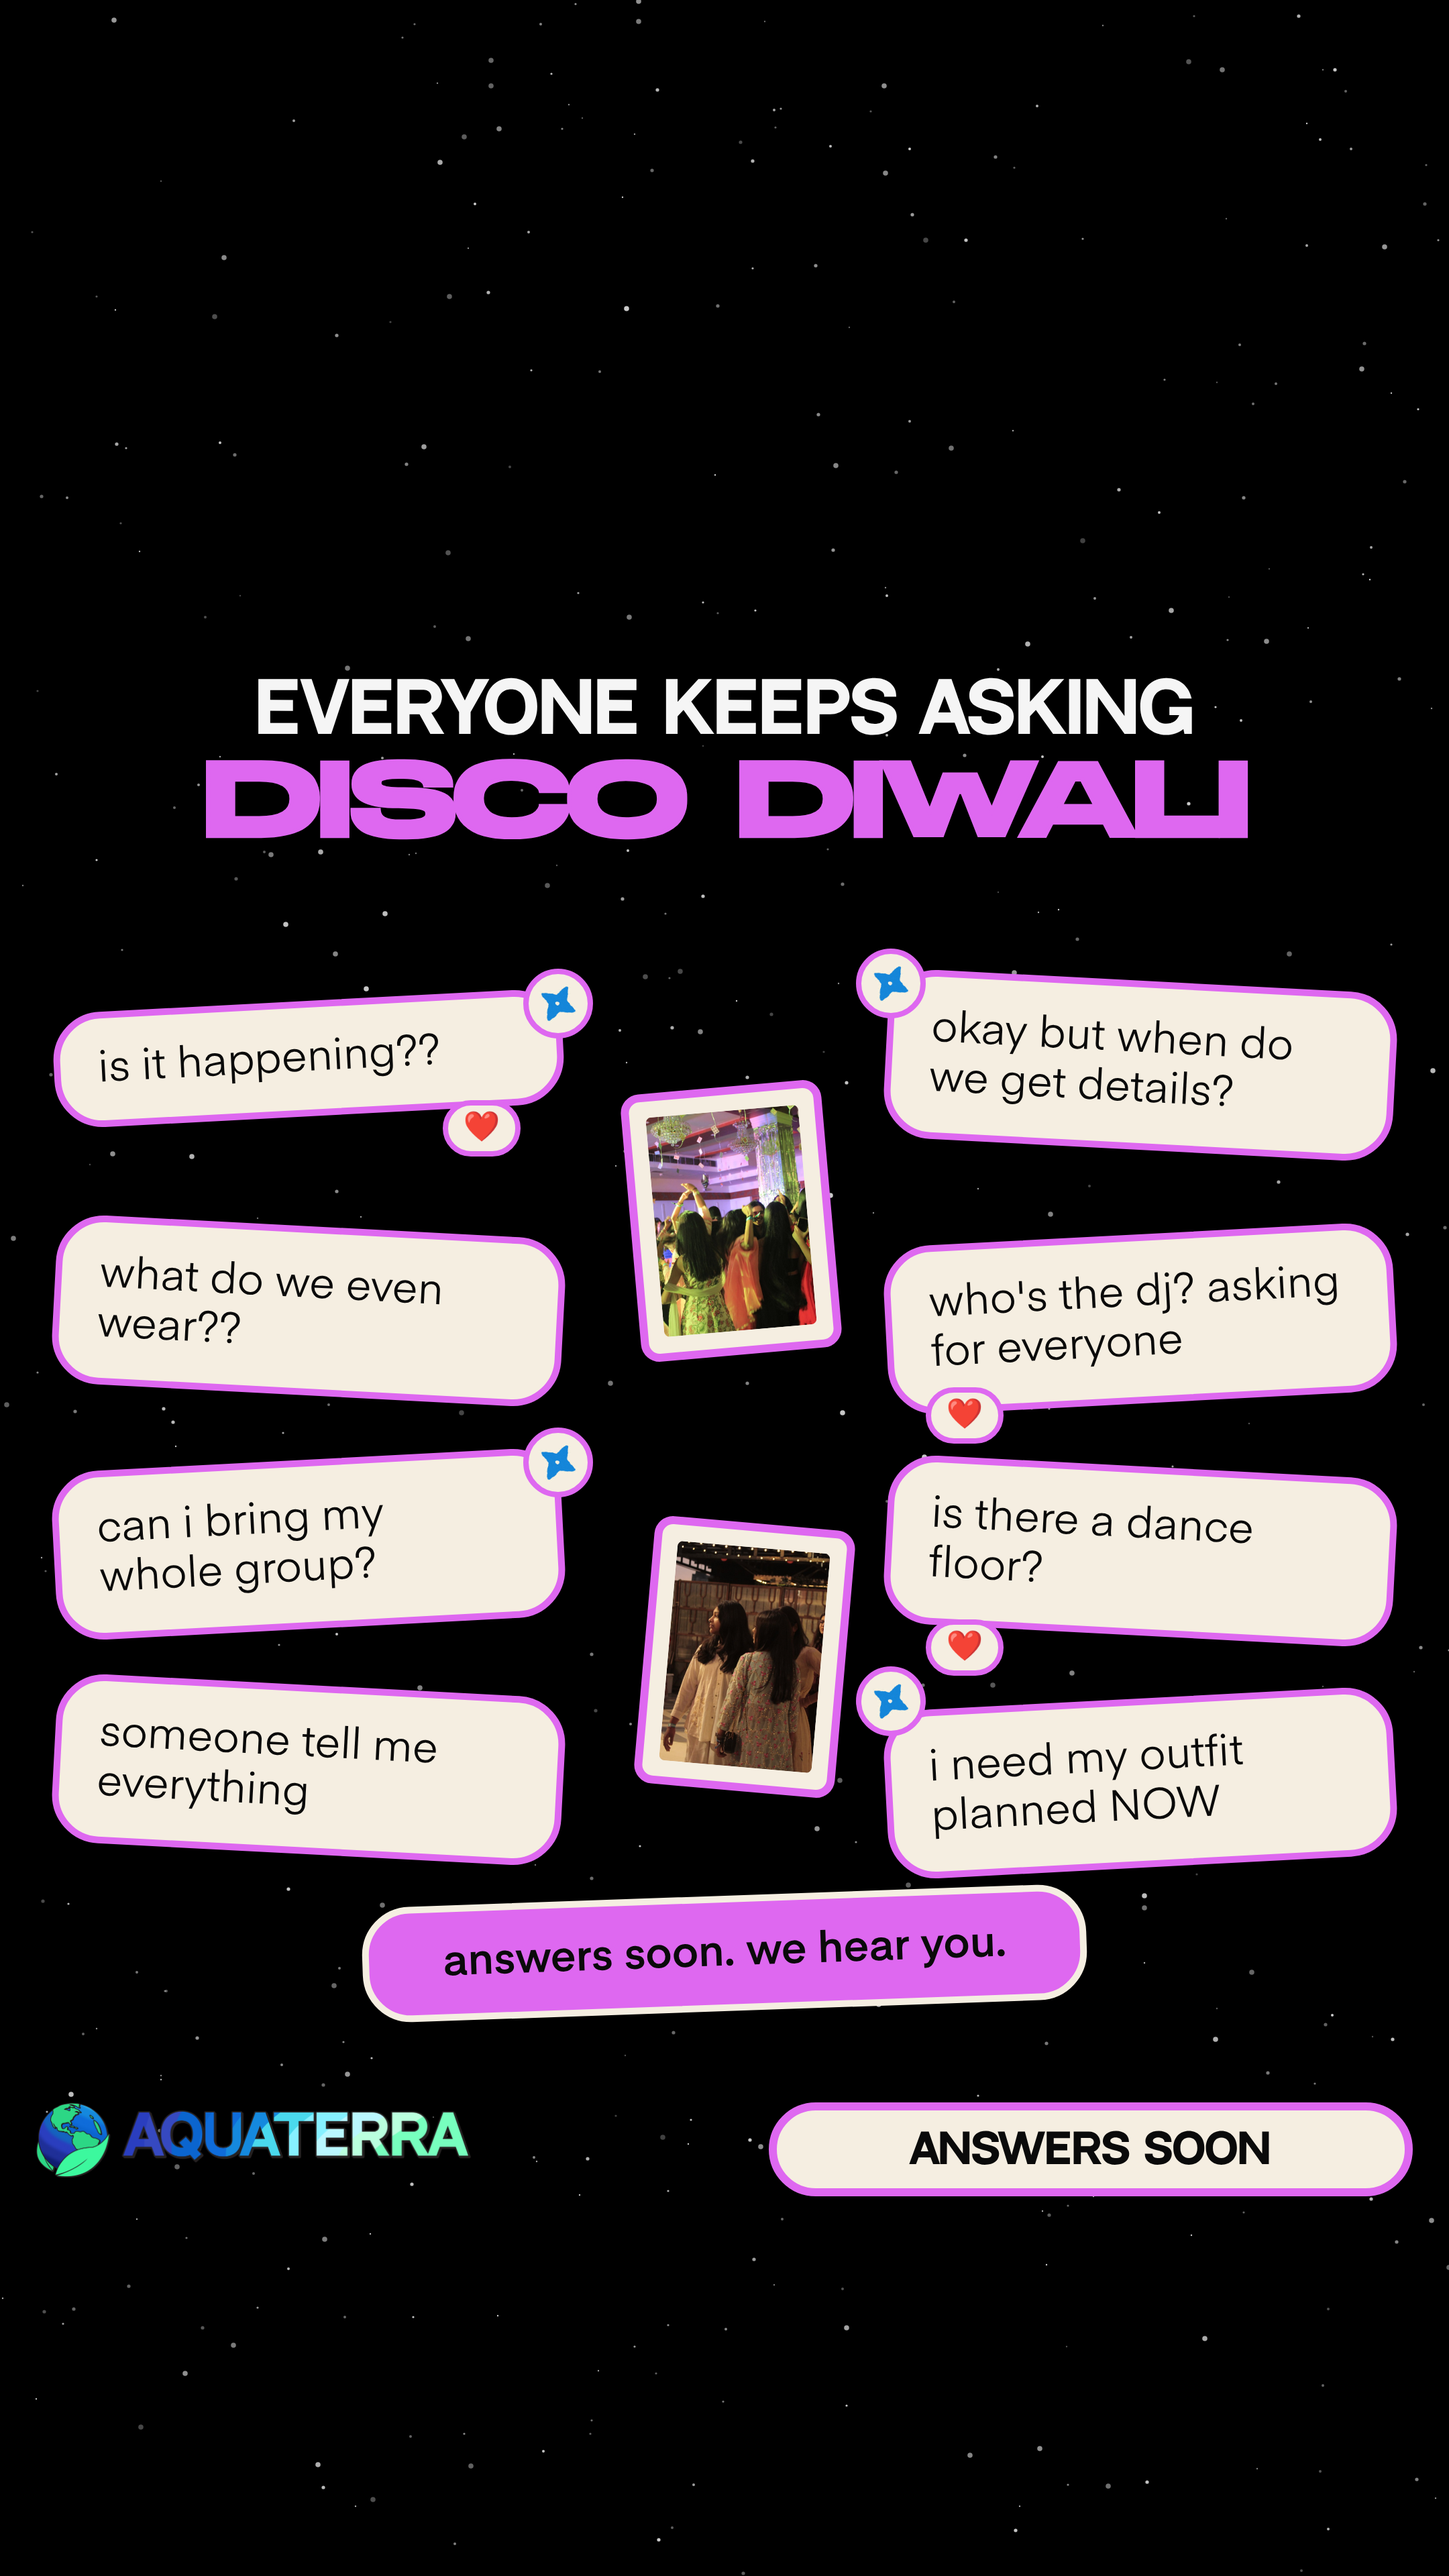
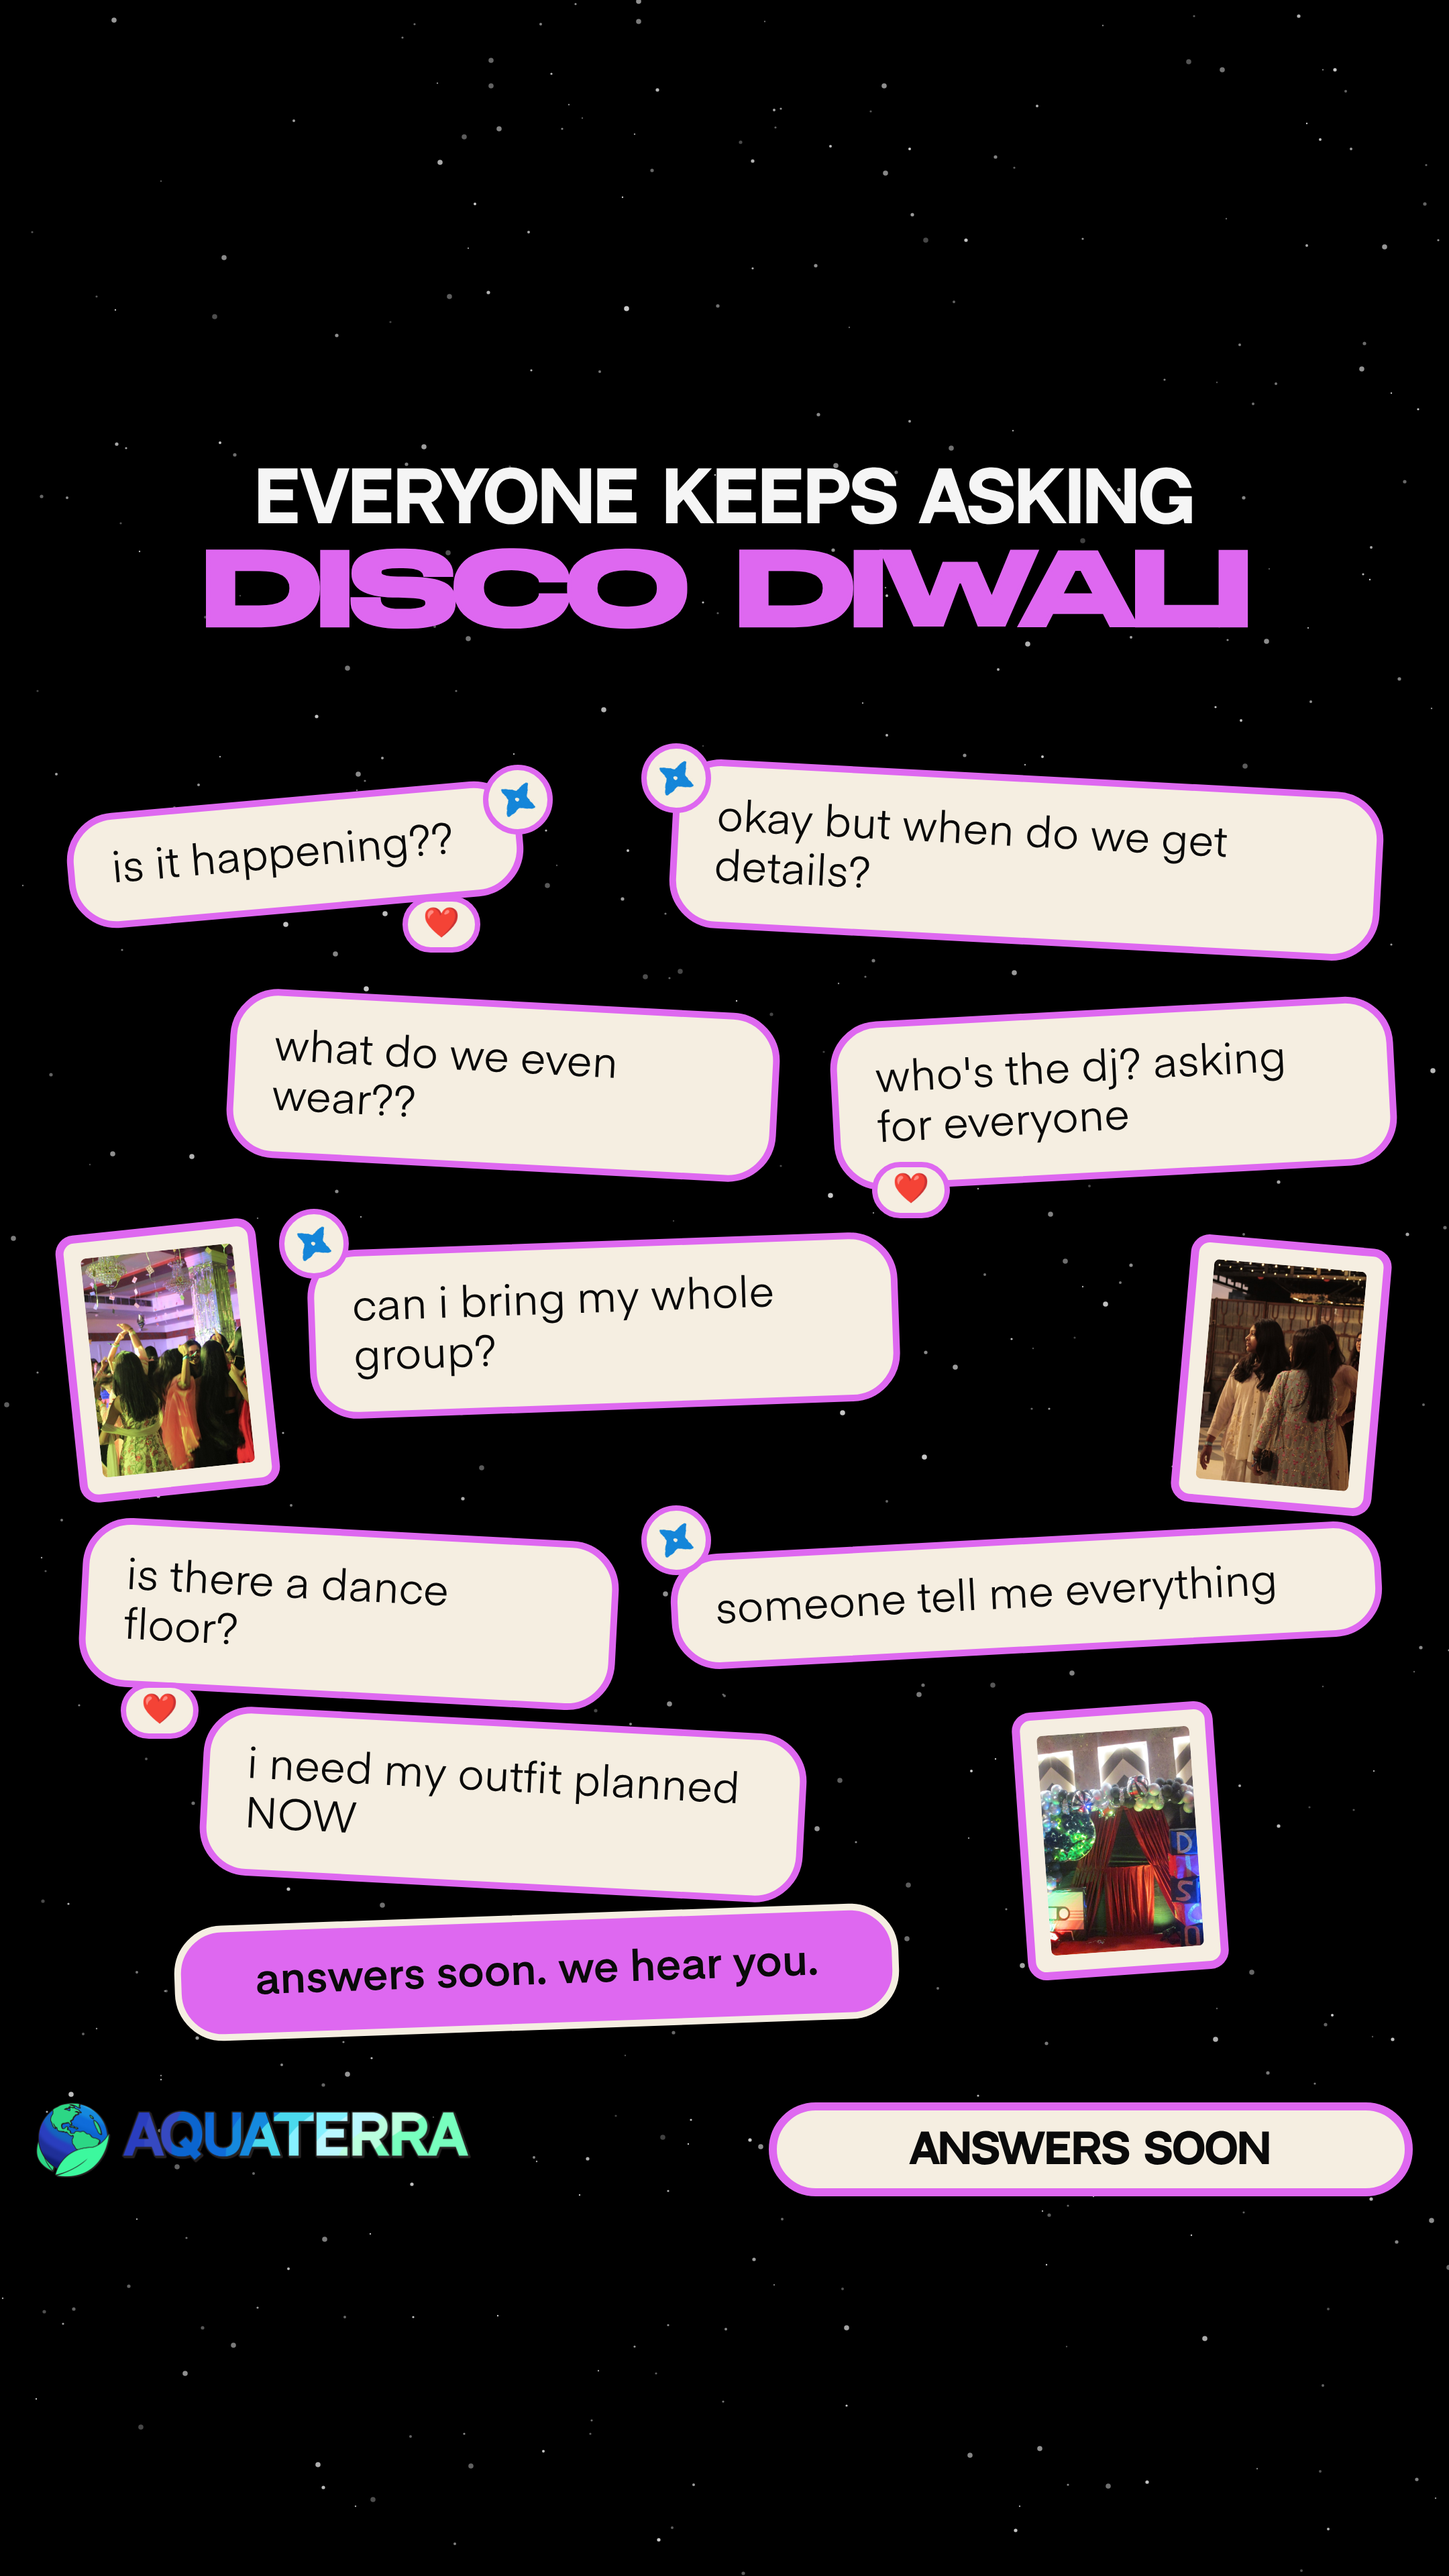
Chat post: scattered staggered placement, title higher, three photo cards
Claude-Session: https://claude.ai/code/session_01FPyADAfvcX9LT1jBMzRpbG

Changed region(s): [[0.031, 0.1562, 0.9616, 0.8125]]

diff --git a/scratchpad/tt_dd_chat_ask.py b/scratchpad/tt_dd_chat_ask.py
@@ -18,31 +18,26 @@ ORCHID, CTA_FILL, INK, WHITE, GROUND, GREEN = fc.ORCHID, fc.CTA_FILL, fc.INK, fc
 K, OFF = (1.05, 190) if STORY else (1.0, 0)
 Y = lambda y: round(OFF + y * K)
 
-SX = {"L": 70, "R": 1010}                  # the two strings the chat hangs from, outside the title's width so nothing crosses it
-BW = 380
-BUBBLES = [  # side, y, rot, text, heart, avatar
-    ("L", 530, -3, "is it happening??", True, True),
-    ("R", 515, 3, "okay but when do we get details?", False, True),
-    ("L", 690, 3, "what do we even wear??", False, False),
-    ("R", 695, -3, "who's the dj? asking for everyone", True, False),
-    ("L", 855, -3, "can i bring my whole group?", False, True),
-    ("R", 860, 3, "is there a dance floor?", True, False),
-    ("L", 1015, 3, "someone tell me everything", False, False),
-    ("R", 1025, -3, "i need my outfit planned NOW", False, True)]
-REPLY = (270, 1165, 540, -2, "answers soon. we hear you.")   # AQ's own answer, orchid, not on a string
-PHOTOS = [(470, 590, 150, 200, -5, "dance", "55% 35%"), (480, 900, 150, 200, 5, "group", "40% 40%")]
+BUBBLES = [  # x, y, w, rot, text, heart, avatar   (scattered like the reference: varied widths, staggered, tilted)
+    (50, 385, 340, -5, "is it happening??", True, True),
+    (500, 370, 530, 3, "okay but when do we get details?", False, True),
+    (170, 530, 410, 3, "what do we even wear??", False, False),
+    (620, 535, 420, -3, "who's the dj? asking for everyone", True, False),
+    (230, 700, 440, -2, "can i bring my whole group?", False, True),
+    (60, 905, 400, 3, "is there a dance floor?", True, False),
+    (500, 910, 530, -3, "someone tell me everything", False, True),
+    (150, 1040, 450, 3, "i need my outfit planned NOW", False, False)]
+REPLY = (130, 1178, 540, -2, "answers soon. we hear you.")   # AQ's own answer, orchid
+PHOTOS = [(50, 690, 150, 200, -6, "dance", "55% 35%"), (880, 700, 150, 200, 5, "group", "40% 40%"), (760, 1030, 150, 200, -4, "decor", "50% 55%")]
 
 
 async def main():
     s = fc.Slide(1, 701)
     im, src = fc.tt.crop_to_alpha("shuriken.png")
-    ys = [Y(y) for _, y, *_ in BUBBLES]
-    ty = Y(300)
+    ty = Y(150)
     yb, _ = await s.title("EVERYONE KEEPS ASKING", "DISCO DIWALI", ty, w1=700, w2=780)
     s.allow("t1", "t2")
-    for i, (side, y, rot, txt, heart, av) in enumerate(BUBBLES):
-        w = BW
-        x = 40 if side == "L" else 1040 - w
+    for i, (x, y, w, rot, txt, heart, av) in enumerate(BUBBLES):
         lines = max(1, math.ceil(len(txt) * 16.5 / (w - 56)))
         h = lines * 40 + 46
         yy = Y(y)
@@ -50,11 +45,11 @@ async def main():
               f'display:flex;align-items:center;padding:0 28px;font-family:var(--e);font-size:32px;line-height:1.15;color:{INK};z-index:6">{txt}</div>')
         s.el(f"b{i}", *rb(x, yy, w, h, rot))
         if heart:
-            hx, hy = (x + w - 90, yy + h - 12) if side == "L" else (x + 30, yy + h - 12)
+            hx, hy = (x + w - 90, yy + h - 12) if i % 2 == 0 else (x + 30, yy + h - 12)
             s.add(f'<div class="measure" data-tag="h{i}" style="position:absolute;left:{hx}px;top:{hy}px;width:58px;height:42px;box-sizing:border-box;border:4px solid {ORCHID};border-radius:999px;background:{CTA_FILL};display:flex;align-items:center;justify-content:center;font-size:22px;z-index:8">\u2764\ufe0f</div>')
             s.el(f"h{i}", hx, hy, 58, 42); s.allow(f"b{i}", f"h{i}")
         if av:
-            ax, ay = (x + w - 30, yy - 24) if side == "L" else (x - 22, yy - 24)
+            ax, ay = (x + w - 30, yy - 24) if i in (0, 2) else (x - 22, yy - 24)
             s.add(f'<div class="measure" data-tag="a{i}" style="position:absolute;left:{ax}px;top:{ay}px;width:52px;height:52px;box-sizing:border-box;border:4px solid {ORCHID};border-radius:50%;background:{CTA_FILL};display:flex;align-items:center;justify-content:center;z-index:8">'
                   f'<img src="{src}" style="width:30px"></div>')
             s.el(f"a{i}", ax, ay, 52, 52); s.allow(f"b{i}", f"a{i}")
